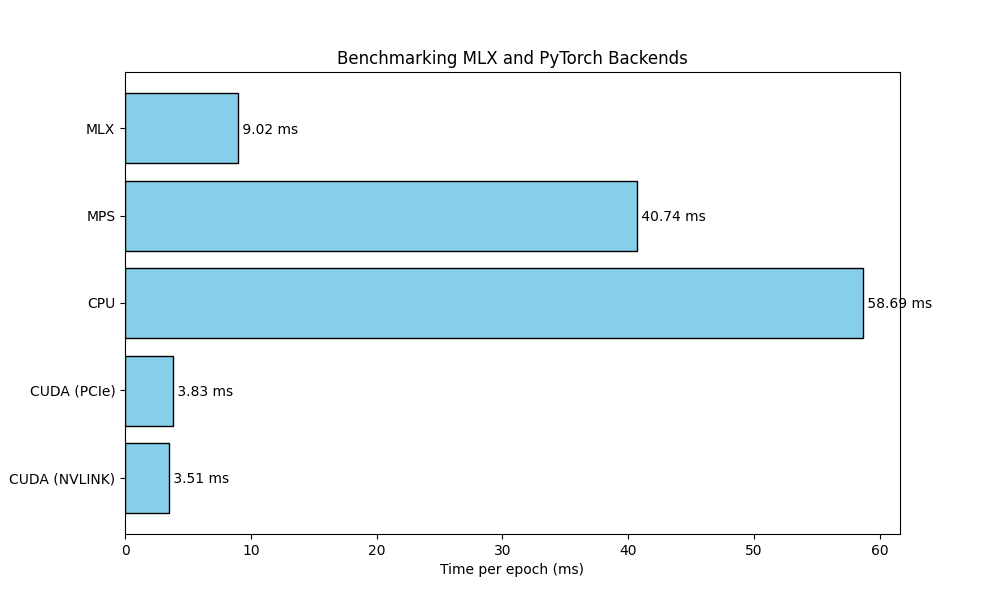
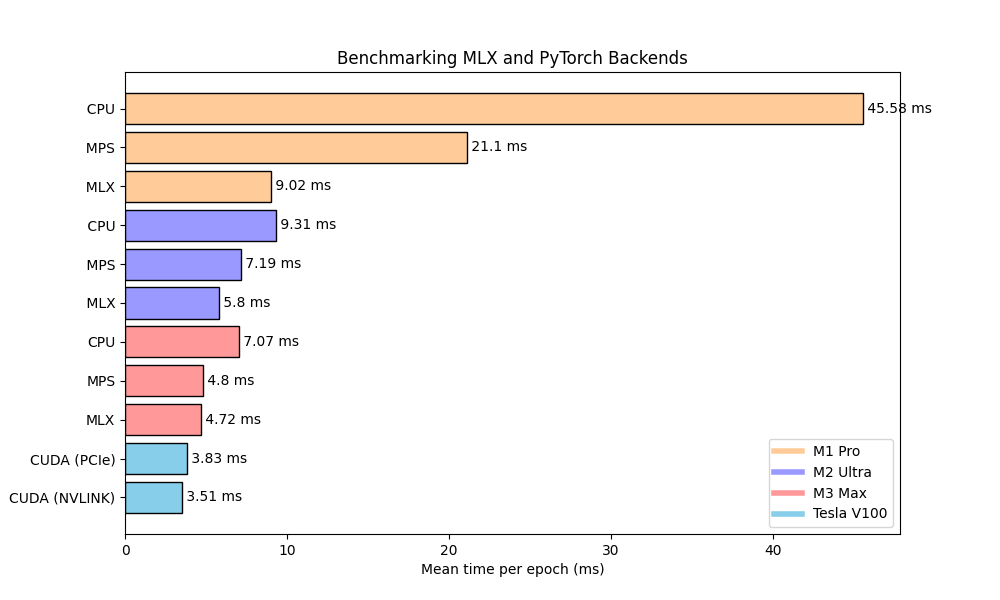
add M2 Ultra and M3 Max bench

diff --git a/viz.py b/viz.py
@@ -8,19 +8,45 @@ cora_label_to_color_map = {0: "red", 1: "blue", 2: "green",
 
 
 def benchmark_plot():
-    # Data for the benchmark graph
-    backends = ['MLX', 'MPS', 'CPU', 'CUDA (PCIe)', 'CUDA (NVLINK)']
-    times = [9.02, 40.74, 58.69, 3.83, 3.51]
+    backends = [
+        '  CPU', '  MPS', '  MLX',
+        ' CPU', ' MPS', ' MLX',
+        'CPU', 'MPS', 'MLX',
+        'CUDA (PCIe)', 'CUDA (NVLINK)',
+    ]
+    times = [
+         45.58, 21.10, 9.02,
+        9.31, 7.19,  5.8,
+        7.07, 4.8,  4.72,
+        3.83, 3.51,
+    ]
+
+    # Setting colors
+    colors = [
+        '#FFCC99' for _ in range(3)] \
+        + ['#9999FF' for _ in range(3)] \
+        + ['#FF9999' for _ in range(3)] \
+        + ['skyblue' for _ in range(2)]
 
     plt.figure(figsize=(10, 6))
-    bars = plt.barh(backends, times, color='skyblue', edgecolor='black')
+    bars = plt.barh(backends, times, color=colors, edgecolor='black')
 
-    plt.xlabel('Time per epoch (ms)')
+    plt.xlabel('Mean time per epoch (ms)')
     plt.title('Benchmarking MLX and PyTorch Backends')
     plt.gca().invert_yaxis()
 
     for index, value in enumerate(times):
-        plt.text(value, index, f' {value} ms', va='center_baseline', color='black')
+        plt.text(value, index, f' {value} ms', va='center')
+
+    # Adding a legend
+    legend_elements = [
+        plt.Line2D([0], [0], color='#FFCC99', lw=4, label='M1 Pro'),
+        plt.Line2D([0], [0], color='#9999FF', lw=4, label='M2 Ultra'),
+        plt.Line2D([0], [0], color='#FF9999', lw=4, label='M3 Max'),
+        plt.Line2D([0], [0], color='skyblue', lw=4, label='Tesla V100')
+    ]
+    plt.legend(handles=legend_elements, loc='lower right')
+
 
     plt.savefig("bench.png")
 

diff --git a/README.md b/README.md
@@ -2,14 +2,15 @@
 
 An example of [GCN](https://arxiv.org/pdf/1609.02907.pdf%EF%BC%89) implementation with MLX. Other examples are available <a href="https://github.com/ml-explore/mlx-examples">here</a>.
 
-The acutal MLX code is in `main.py`, whereas the PyTorch equivalent is in `main_torch.py`.
+The actual MLX code is located in `main.py`, whereas the PyTorch equivalent is in `main_torch.py`.
 
 ### Install env and requirements
 
 ```
-CONDA_SUBDIR=osx-arm64 conda create -n mlx python=3.10 numpy -c conda-forge
+CONDA_SUBDIR=osx-arm64 conda create -n mlx python=3.10 numpy pytorch scipy requests -c conda-forge
+
 conda activate mlx
-pip install -r requirements.txt
+pip install mlx
 ```
 
 ### Run
@@ -20,7 +21,7 @@ python main.py
 ```
 
 ### Run benchmark
-To run benchmark on torch_mps | torch_cpu | torch_cuda, a new env needs to be set up without the `CONDA_SUBDIR=osx-arm64` prefix, to be in i386 mode and not arm. Additional dependencies like `torch` also need be installed in the env to run these benchmark.
+To run the benchmark on CUDA device, a new env needs to be set up without the `CONDA_SUBDIR=osx-arm64` prefix, to be in i386 mode and not arm. For all other experiments on arm and Apple Silicon, just use the env created previously.
 ```
 python benchmark.py --experiment=[ mlx | torch_mps | torch_cpu | torch_cuda ]
 ```
